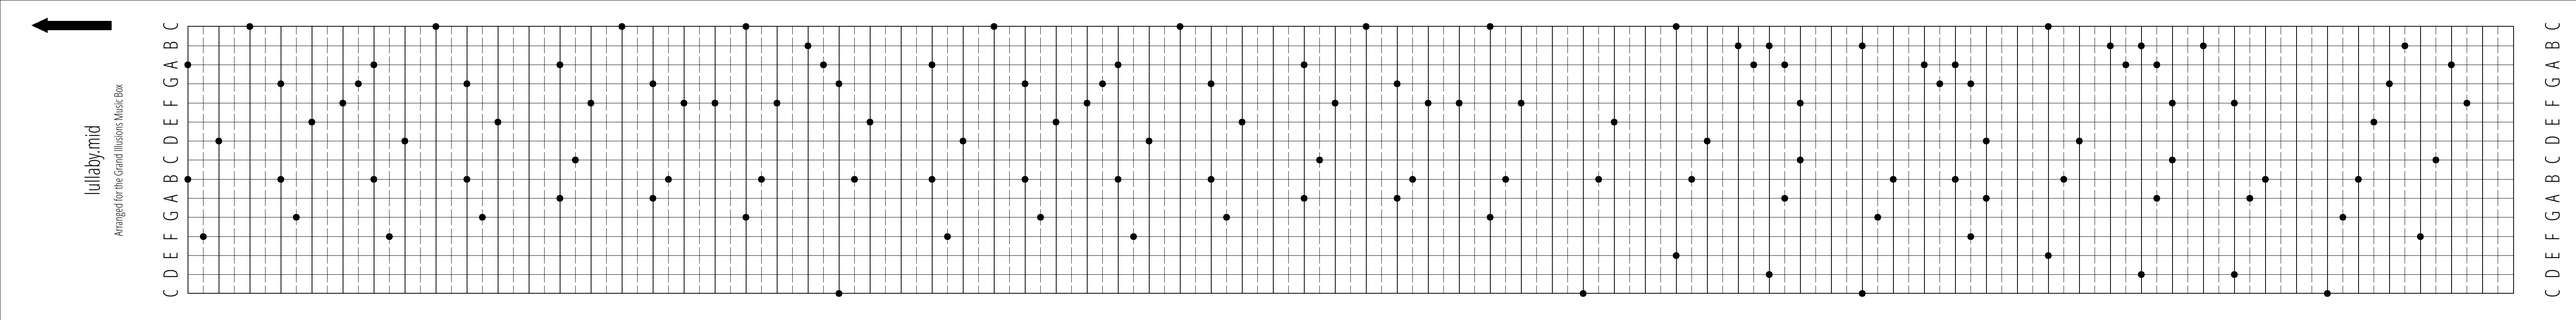
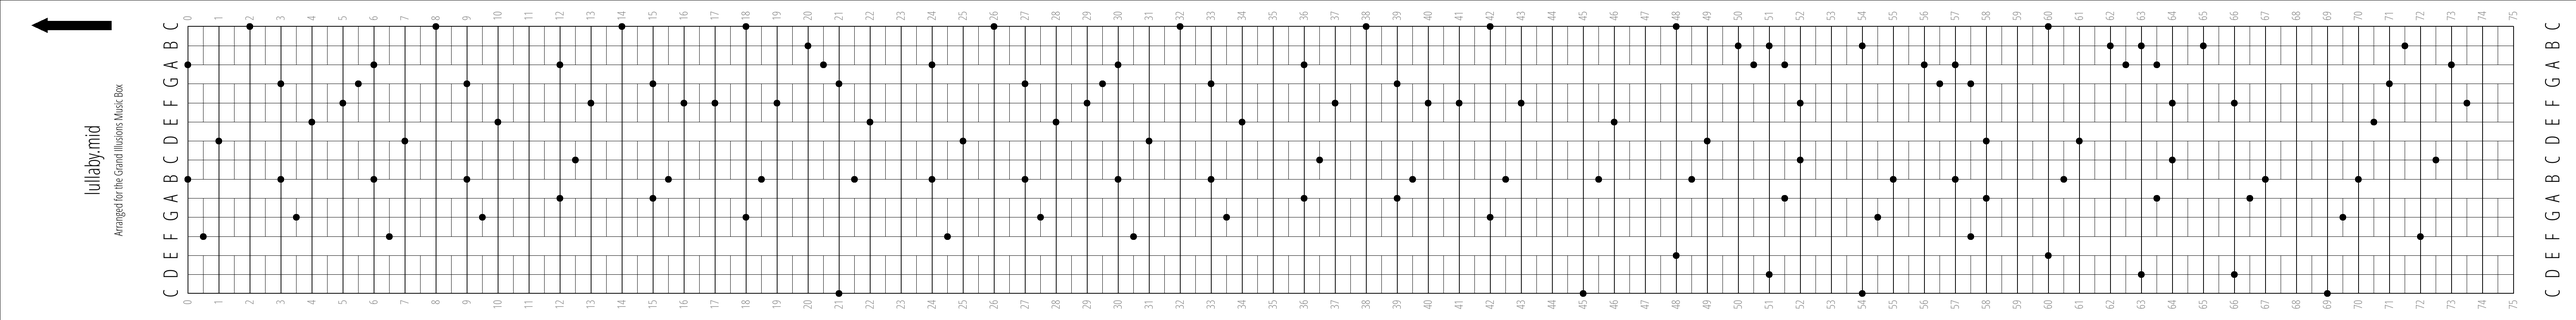
prettier and readable punch cards

Changed region(s): [[0.841, 0.9371, 0.8721, 0.9674]]

diff --git a/falcon/puncher.py b/falcon/puncher.py
@@ -73,11 +73,6 @@ def draw_grid(draw, beats, box, y0):
     h = beat_height
     l = len(box.notes)
     w = (card_width - margin_left - margin_right) / float(l - 1)
-    # Draw vertical lines, first and last thicker
-    for i in xrange(l):
-        t = 3 if (i == 0 or i == l - 1) else 1
-        draw.line([(margin_left + i * w, y0),
-                   (margin_left + i * w, y0 + beats * h)], fill="black", width=adjust(t))
     y = 0
     # Draw half-beat horizontal lines
     for i in xrange(beats):
@@ -85,14 +80,23 @@ def draw_grid(draw, beats, box, y0):
         draw.line([(margin_left, y + h / 2),
                    (card_width - margin_left, y + h / 2)], fill="black", width=adjust(1))
     # Make half-beat lines dashed by drawing thick vertical white lines over
-    for i in xrange(l - 1):
+    for i in xrange(2, l - 1, 3):
         draw.line([(margin_left + i * w + w / 2, y0),
-                   (margin_left + i * w + w / 2, y0 + beats * h)], fill="white", width=adjust(10))
+                   (margin_left + i * w + w / 2, y0 + beats * h)], fill="white", width=int(w))
+    # Draw vertical lines, first and last thicker
+    for i in xrange(l):
+        t = 3 if (i == 0 or i == l - 1) else 1
+        draw.line([(margin_left + i * w, y0),
+                   (margin_left + i * w, y0 + beats * h)], fill="black", width=adjust(t))
     # Draw full-beat lines
     for i in xrange(beats + 1):
         y = y0 + h * i
+        size = font_small.getsize(str(i))
         draw.line([(margin_left, y),
                    (card_width - margin_left, y)], fill="black", width=adjust(3))
+        # Beat numbers in margin
+        draw.text((margin_left - size[0] - adjust(20), y - size[1] / 2 - adjust(8)), str(i), "gray", font_small)
+        draw.text((card_width - margin_left + adjust(20), y - size[1] / 2 - adjust(8)), str(i), "gray", font_small)
 
     return y
 
